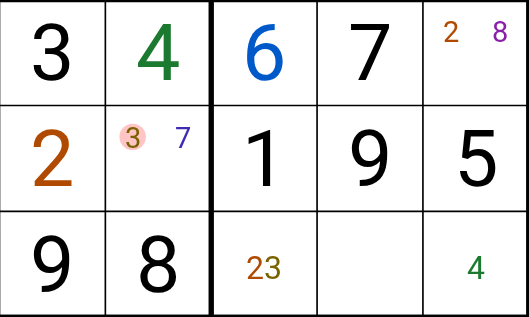
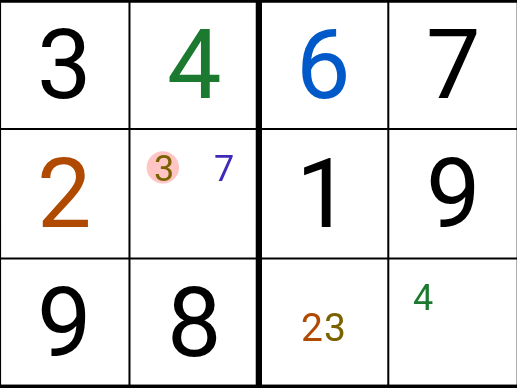
Homepage: Digit Color picture cropped closer so the marks read
Closes #44

diff --git a/site/index.html b/site/index.html
@@ -20,7 +20,7 @@
   p { margin: 0 0 .5rem; }
   .entries { display: grid; grid-template-columns: 1fr; gap: 1px; margin: 1.5rem 0; background: var(--rule); border-block: 1px solid var(--rule); }
   section { display: flex; gap: 1.25rem; align-items: flex-start; padding: 1.25rem 1rem 1rem 0; background: Canvas; }
-  section img { flex: none; max-width: 45%; height: auto; }
+  section img { flex: none; max-width: 50%; height: auto; }
   .install { display: inline-block; padding: .2rem .7rem; border-radius: 3px; background: var(--accent); color: var(--on-accent); font-size: .9rem; text-decoration: none; }
   .install:hover, .install:focus-visible { text-decoration: underline; }
   @media (min-width: 52rem) {
@@ -46,7 +46,7 @@
     </div>
   </section>
   <section>
-    <img src="https://raw.githubusercontent.com/caneff/sudokupad-scripts/main/docs/research/site-digit-color.png" alt="Large colored digits with matching corner and centre marks, one with a red circle" width="270" height="162">
+    <img src="https://raw.githubusercontent.com/caneff/sudokupad-scripts/main/docs/research/site-digit-color.png" alt="Large colored digits with matching corner and centre marks, one with a red circle" width="300" height="225">
     <div>
       <h2>Digit Color</h2>
       <p>Gives each digit its own color, in entered digits and in corner and centre marks. A mark that conflicts gets a small red circle behind it.</p>
